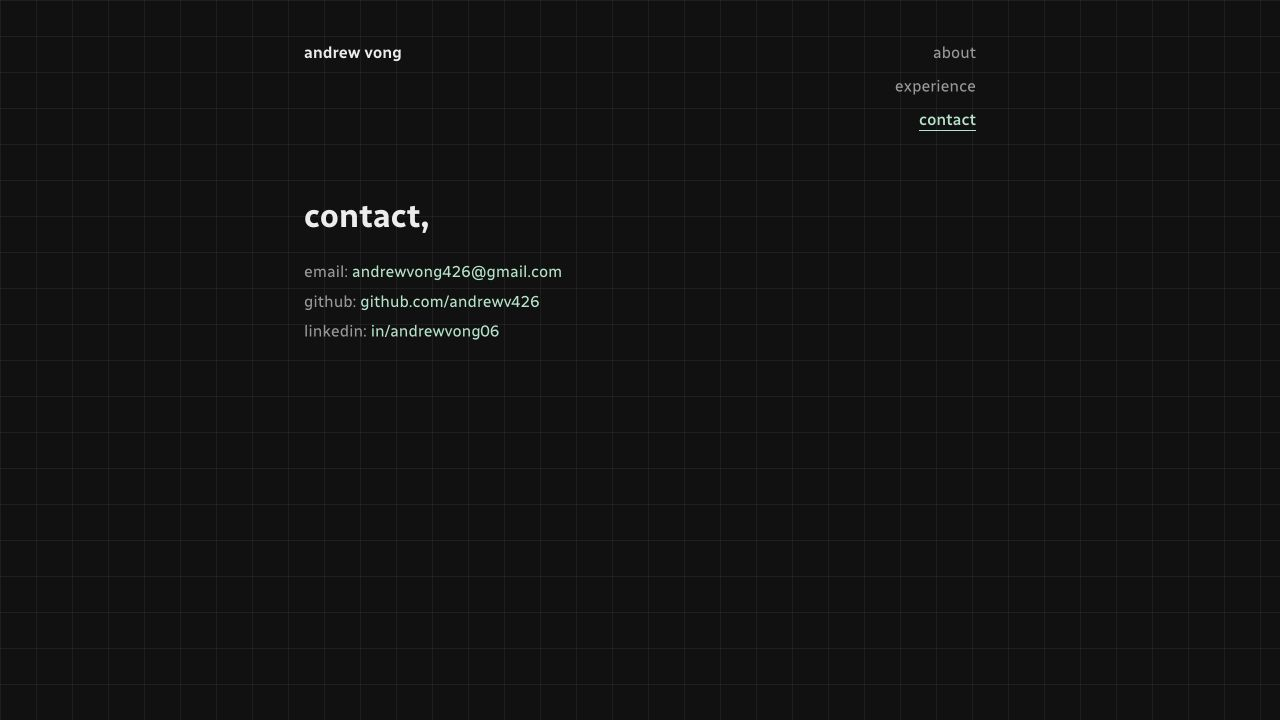
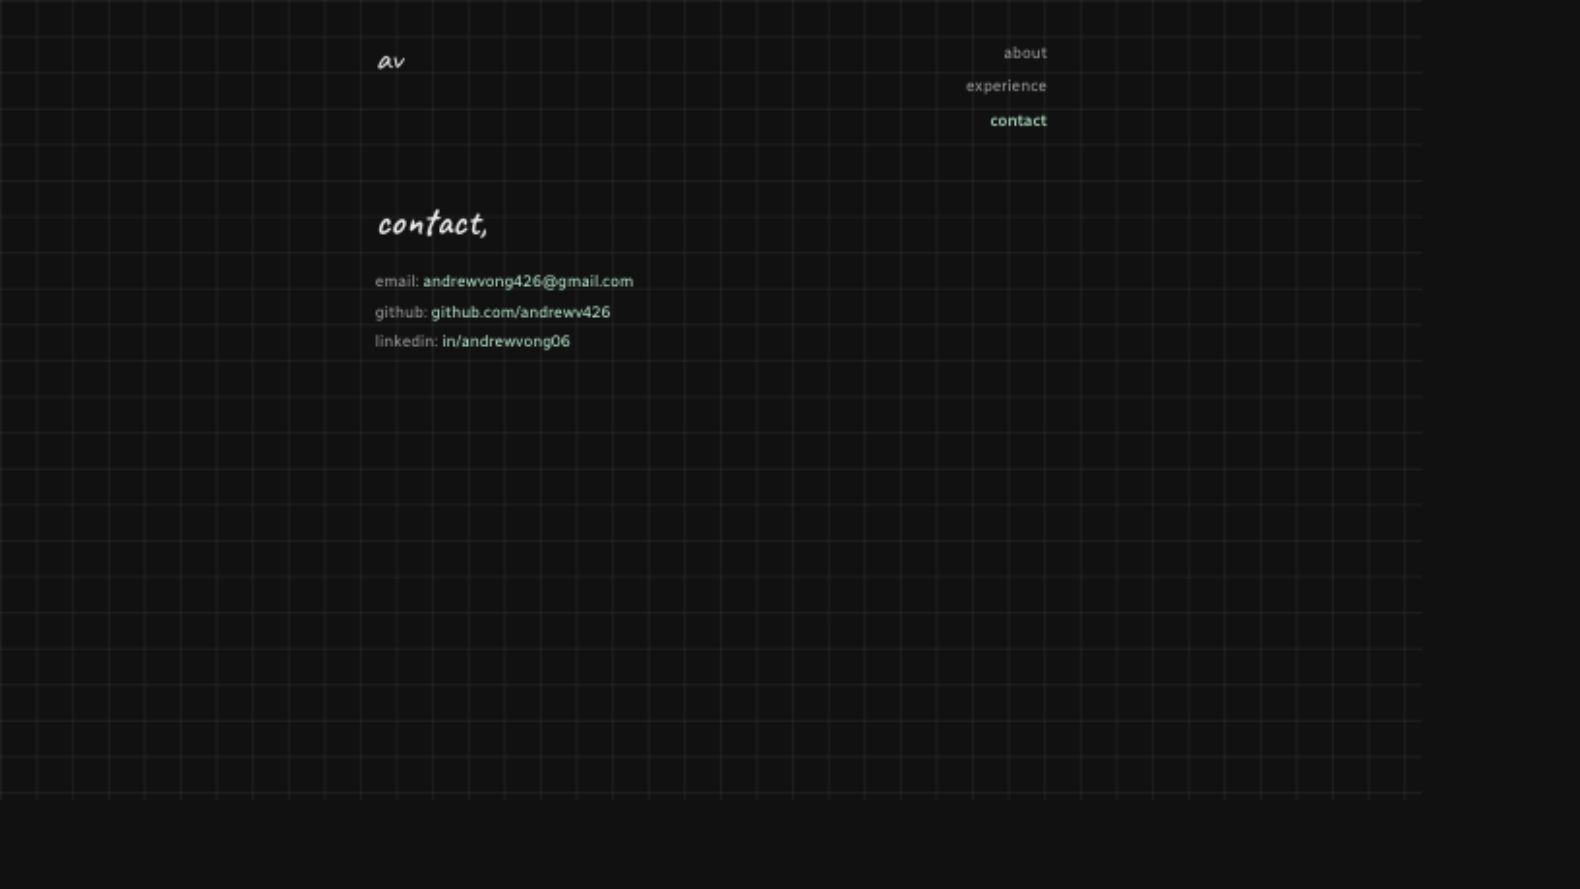
style: add handwritten branding and headings

diff --git a/src/App.css b/src/App.css
@@ -9,8 +9,25 @@
   margin-bottom: var(--space-xl);
 }
 
-.navbar .brand {
+.navbar .brand,
+.page h1,
+.hackathons h2,
+.experience h2,
+.projects h2 {
+  font-family: var(--font-handwritten);
+}
+
+.page h1,
+.hackathons h2,
+.experience h2,
+.projects h2 {
   font-weight: 600;
+}
+
+.navbar .brand {
+  font-weight: 400;
+  font-size: 2.25rem;
+  line-height: 1.05;
   text-decoration: none;
 }
 
@@ -57,7 +74,7 @@
 .experience h2,
 .projects h2 {
   color: var(--accent-link);
-  font-size: 1rem;
+  font-size: 2rem;
   margin-bottom: 1.5rem;
 }
 .hackathons,
@@ -228,6 +245,9 @@ section {
 }
 .page h1, .page p {
   margin-bottom: 1.5rem;
+}
+.page h1 {
+  font-size: 2.5rem;
 }
 
 .link-list {

diff --git a/index.html b/index.html
@@ -7,7 +7,7 @@
     <meta name="description" content="andrew vong — third-year cs at texas a&amp;m. personal portfolio." />
     <link rel="preconnect" href="https://fonts.googleapis.com" />
     <link rel="preconnect" href="https://fonts.gstatic.com" crossorigin />
-    <link rel="stylesheet" href="https://fonts.googleapis.com/css2?family=Radio+Canada:wght@400;500;600;700&display=swap" />
+    <link rel="stylesheet" href="https://fonts.googleapis.com/css2?family=Caveat:wght@400;600&family=Radio+Canada:wght@400;500;600;700&display=swap" />
     <title>andrew vong</title>
     <meta name="color-scheme" content="dark" />
   </head>

diff --git a/src/pages/About.jsx b/src/pages/About.jsx
@@ -12,7 +12,7 @@ function About() {
         I'm currently looking for infra/backend/systems/ML roles, and I'm also interested in algorithms and mech. interp research!
       </p>
       <p>
-        {"-> "}view my work <Link className="link-accent" to="/experience">here</Link>
+        → view my work <Link className="link-accent" to="/experience">here</Link>
       </p>
       <p>- andrew vong</p>
     </section>

diff --git a/src/components/Navbar.jsx b/src/components/Navbar.jsx
@@ -3,8 +3,8 @@ import { NavLink } from "react-router-dom";
 function Navbar() {
   return (
     <nav className="navbar">
-      <NavLink to="/" className="brand">
-        andrew vong
+      <NavLink to="/" className="brand" aria-label="andrew vong">
+        av
       </NavLink>
       <ul className="nav-links">
         <li><NavLink to="/" end>about</NavLink></li>

diff --git a/src/components/Hackathons.jsx b/src/components/Hackathons.jsx
@@ -4,7 +4,7 @@ import { hackathons } from "../data/work.js";
 function Hackathons() {
   return (
     <section className="hackathons">
-      <h2>HACKATHONS</h2>
+      <h2>hackathons</h2>
       {hackathons.map((entry) => (
         <Entry entry={entry} key={entry.name} />
       ))}

diff --git a/src/index.css b/src/index.css
@@ -32,6 +32,7 @@ body {
 
   /* Type scale */
   --font-sans: "Radio Canada", system-ui, -apple-system, "Segoe UI", sans-serif;
+  --font-handwritten: "Caveat", cursive;
   --font-mono: ui-monospace, "SF Mono", Menlo, monospace;
   --text-sm: 0.875rem;
   --text-base: 1rem;

diff --git a/src/components/Projects.jsx b/src/components/Projects.jsx
@@ -4,7 +4,7 @@ import { projects } from "../data/work.js";
 function Projects() {
   return (
     <section className="projects">
-      <h2>PROJECTS</h2>
+      <h2>projects</h2>
 
       {projects.map((project) => (
         <Entry entry={project} key={project.name} />

diff --git a/src/components/Experience.jsx b/src/components/Experience.jsx
@@ -4,7 +4,7 @@ import { jobs } from "../data/work.js";
 function Experience() {
   return (
     <section className="experience">
-      <h2>WORK</h2>
+      <h2>work</h2>
 
       {jobs.map((job) => (
         <Entry entry={job} key={job.name} />
